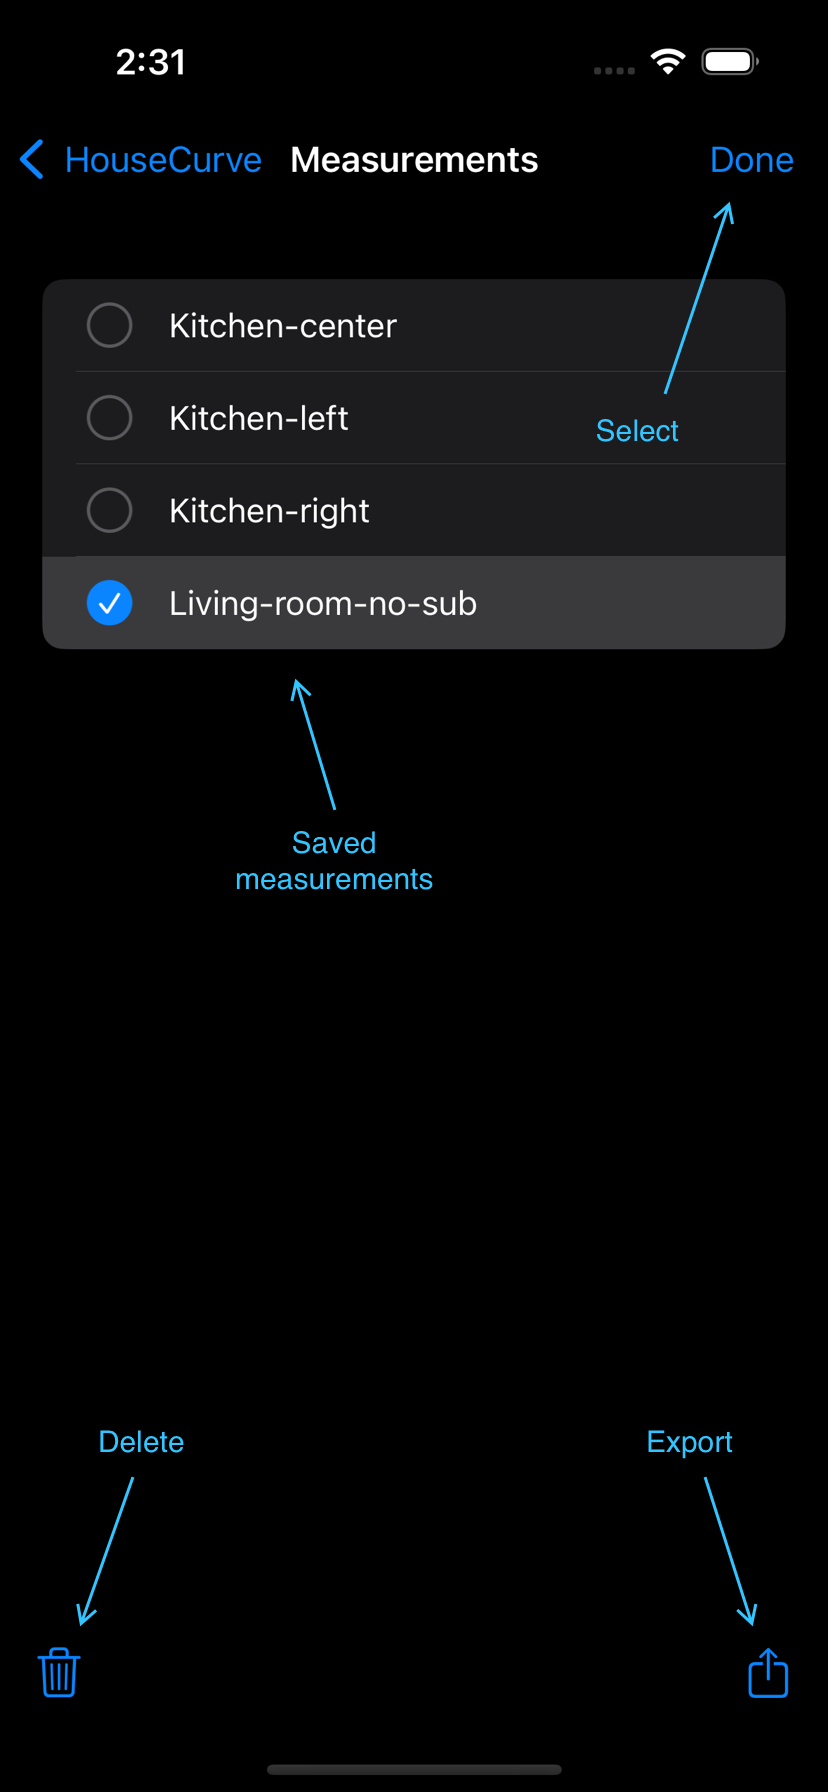
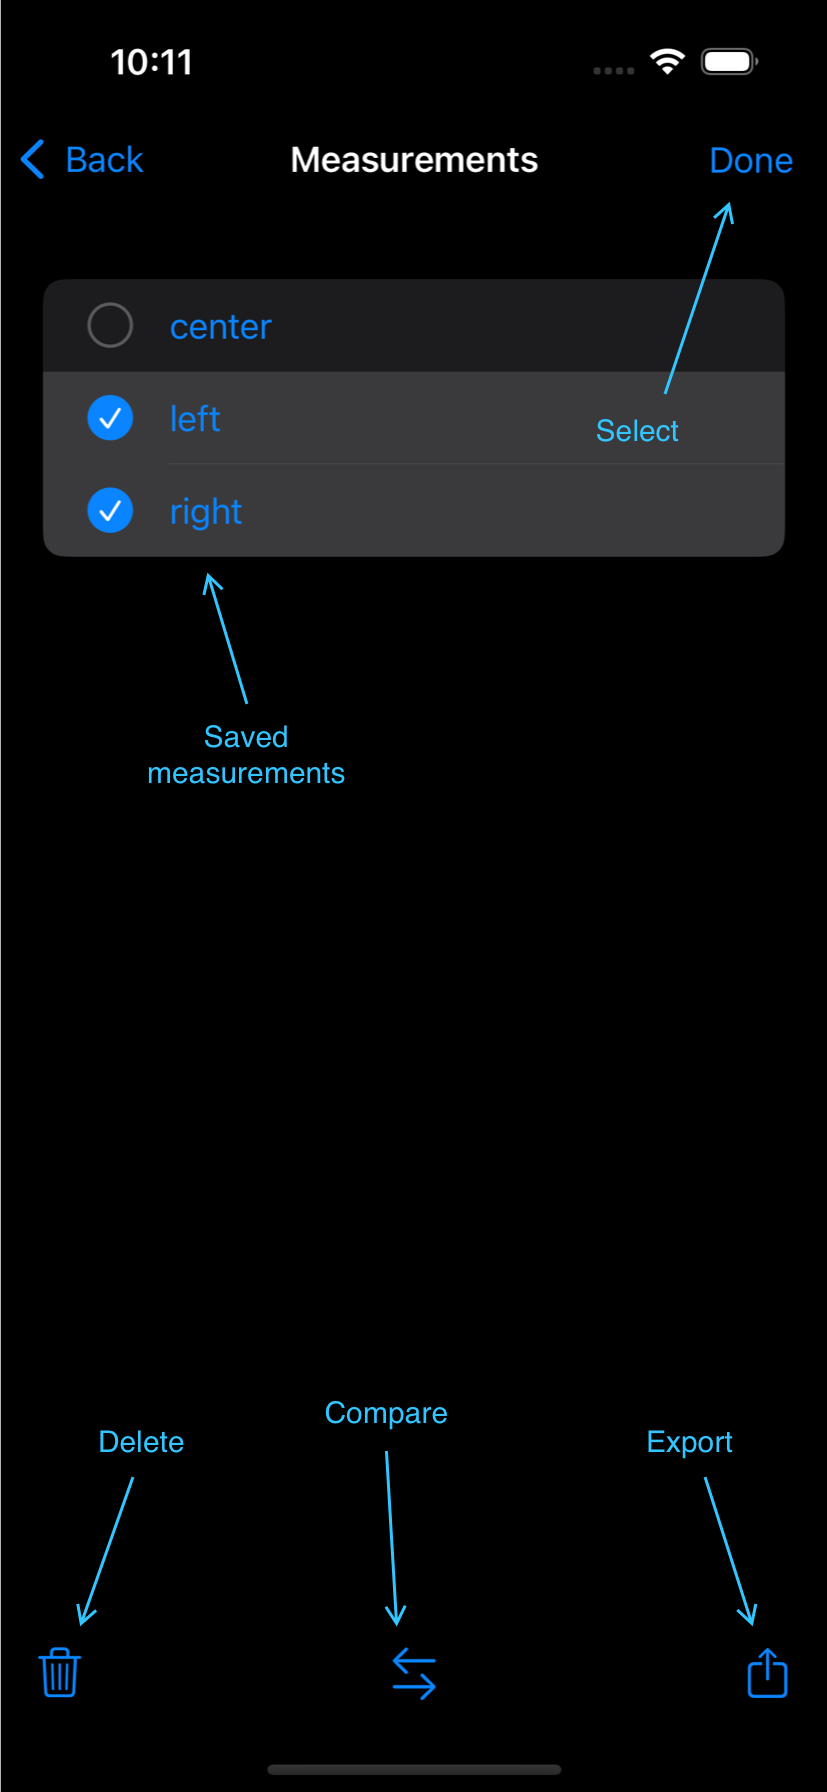
Updating measurements tool description

diff --git a/docs/manual/measurements_tool.md b/docs/manual/measurements_tool.md
@@ -7,20 +7,28 @@ nav_order: 8
 ---
 
 # Measurements Tool
-The Measurements tool is an organizer for measurements saved by the Sweep and Real Time tool.  Use it to export and delete measurements.  In the future this tool will also have the ability to view and compare saved measurements.
+The Measurements tool is an organizer for measurements saved by the Sweep and Real Time tool.  Use it to view, compare, export and delete measurements.
 
 ![Measurements tool](/assets/img/measurements_tool.png "Measurements tool")
 {: .app-portrait-right }
 
 
+## View Measurement
+Tap a measurement to display.  The plot has controls similar to the [Sweep](sweep_tool.md) tool.
+
 ## Selection
 Tap "Select" to choose measurements.
 
 ## Delete
-Deletes selected measurements.
+Tap <img src="/assets/img/trash.png" alt="Delete" class="app-icon"> to delete selected measurements.
+
+## Compare
+Select up to 5 measurements and tap <img src="/assets/img/compare.png" alt="Compare" class="app-icon"> to compare them on the same plot.
+
+The compare plot has controls similar to the [Sweep](sweep_tool.md) tool.  Tap <img src="/assets/img/prevplot.png" alt="Previous Plot" class="app-icon"> and <img src="/assets/img/nextplot.png" alt="Next Plot" class="app-icon"> to choose which measurement is focused.  The cursor and automatic curve fit will follow the focused measurement.  Use a manual curve fit to stop the target curve from shifting.
 
 ## Export
-Export selected measurements as [impulse responses](file_formats.md#measurements).
+Tap <img src="/assets/img/export.png" alt="Export" class="app-icon"> to export selected measurements as [impulse responses](file_formats.md#measurements).
 
 Note - this feature is only available with a [Tuning Bundle](../DOWNLOAD.md#tuning-bundle) purchase.
 
